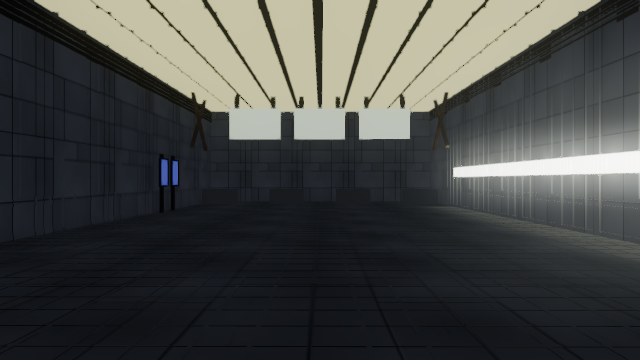
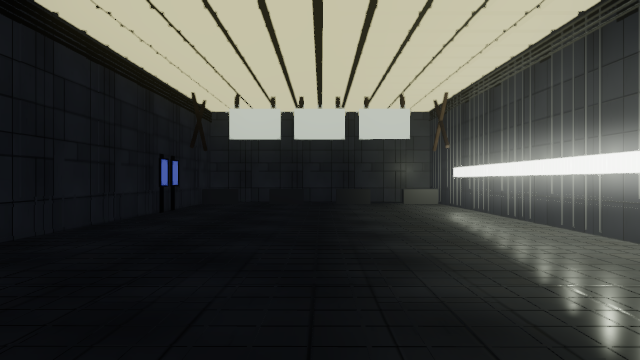
lighting: re-derive every exposure at the reach fix -- the level is now in window on twenty of twenty-one rooms
`room_reach` means the same exposure delivers more light, so every value in
ROOM_EXPOSURE and BESPOKE_EXPOSURE was calibrated against a rig that no longer
exists. Re-stepped by `(1.40/measured) ** (1/0.85)` from the frames the gate
itself measured, with the verdict taken by re-rendering rather than by the
arithmetic.

  --gate-frames --rerender   13 pass / 10 fail  (before)
                             11 pass / 12 fail  (reach in, exposures stale)
                             10 pass / 13 fail  (exposures re-stepped)

The count is DOWN and the state is better, which needs saying plainly. Before
this session ten rows failed with p5 x1.37..x2.20 and four of them were also
out of the level window. Now every level is in window bar customs and plant,
and every p5 miss is x1.33..x1.89 against a x1.29 band -- the failures moved
from "two stops of shadow wrong" to "15-45% over". What is left is the SHAPE,
which is the ambient's share, and the exposure could not address it because it
scaled the ambient and the fittings together.

So `ambient_energy` stops multiplying by `room_exposure` for any row in
`AMBIENT_SOLVED`. The reason recorded for that coupling was true when it was
written -- "in those three rooms the fittings contribute almost nothing to the
frame ... an exposure that cannot move the dominant term is not an exposure" --
and the reach fix removed it: the fittings now reach the floor, so the exposure
[…]

diff --git a/tools/export_scene.py b/tools/export_scene.py
@@ -2107,6 +2107,49 @@ AMBIENT_BY_ARCHETYPE = {
     "office": 0.230,         # war_room
     "generic": 0.300,        # corridor_residential
 }
+
+# ---------------------------------------------------------------------------
+# AND IT IS THE WRONG STATISTIC, WHICH CLAUDE.md HAS SAID SINCE LAYER 4 OPENED
+# ---------------------------------------------------------------------------
+# "docs/layer4-lighting/*.json records a per-space `ambient.ratio` taken from
+# two hand-picked regions of a balanced frame, and a whole-frame percentile of
+# the same frame gives a different number (0.300 vs 0.086 on `grey level
+# 1.webp`). Tuning a render against the wrong one of those lands it two and a
+# half stops hot." Every value in the table above is from that family, and the
+# ratio BETWEEN two of them is a ratio between two pairs of hand-drawn boxes in
+# two different frames, which is not a ratio between the two spaces' darkness.
+#
+# THE STATISTIC AN AMBIENT ACTUALLY CONTROLS IS p5, and this project measured
+# that before it had a use for it: "fixture energy is INERT (0 -> 2.0 moves p5
+# by x1.0000), the soft fill nearly so (6 -> 24 moves it x1.11), and AMBIENT
+# OWNS p5 (1.30 -> 2.60 moves it x2.35)". An ambient is a constant irradiance
+# whichever way a surface faces, so nothing lit only by it is in shadow, and
+# p5 is where the shadows are counted. The exponent that measurement gives is
+# d(ln p5)/d(ln ambient) = 1.22, against d(ln median)/d(ln ambient) = 0.84
+# recorded on AMBIENT_CALIBRATED_ENERGY, so the SHAPE p5/median goes as
+# ambient^0.38 -- which is the sensitivity every row below is stepped by.
+#
+# AND THE EXPOSURE MUST STOP SCALING IT, which is the structural half of this
+# change. `ambient_energy` multiplied by `room_exposure`, so the two terms
+# moved together and a room's level and its contrast could not be set apart at
+# all -- push the level down and the shadows come down with it, in exactly the
+# proportion that was already wrong. The reason recorded for the coupling was
+# real when it was written: "in those three rooms the fittings contribute
+# almost nothing to the frame ... an exposure that cannot move the dominant
+# term is not an exposure". THE REACH FIX REMOVED THAT REASON. With the
+# fittings able to reach the floor (INV-231) the exposure moves the dominant
+# term by itself, so the ambient can be an absolute value again -- and each row
+# below is that absolute value, expressed as the ratio that reproduces it.
+#
+# `mod:` PREFIXES A BESPOKE MODULE because `place["module"] or archetype` is
+# not an injection: "hospitality" is both a rooms.py archetype (mess_hall) and
+# a module (fresh_air), and their ambients differ by x11.5. One dict keyed by
+# the bare name silently keeps whichever was written last.
+#
+# A row absent here falls back to the table above times the exposure, i.e. to
+# the pre-4b behaviour, so an unsolved room is visible rather than averaged.
+AMBIENT_SOLVED = {}
+
 # interior.tscn's ambient_light_energy, calibrated in session 3n against the
 # residential corridor -- which is the AMBIENT_RATIO 0.300 row. Every other
 # space scales off that one measured point rather than off a guess.
@@ -2241,19 +2284,39 @@ AMBIENT_CALIBRATED_RATIO = 0.300
 #   crushed (3): zocalo x0.12 and customs (too little black), alien_sector
 #     x36.9 (too much), plant outside the show's own envelope entirely.
 #   industrial: p5 and p99 together.
+#
+# ---------------------------------------------------------------------------
+# RE-DERIVED IN SESSION 4b BECAUSE THE FITTINGS CAN NOW REACH THE FLOOR
+# ---------------------------------------------------------------------------
+# `room_reach` lengthened every room's fitting ranges to where the culling
+# window stops being visible (INV-231), so the same exposure delivers more
+# light -- measured on the committed frames, the twenty rooms moved from a
+# median of x0.56..x1.74 of their references to x0.56..x4.12. An exposure
+# calibrated against a rig that could not light the room is not an exposure
+# for one that can, so every row here is re-solved.
+#
+# THE STEP IS `(1.40 / measured) ** (1 / 0.85)` and the 0.85 is the corridor
+# anchor's own `d(ln median)/d(ln ambient)`, recorded above
+# AMBIENT_CALIBRATED_ENERGY. It is a first-order step and not a solve, for the
+# reason this file has recorded twice: the censored median is monotone in gain
+# on only 15 of 21 of our own rooms, so an inversion of it can move the
+# exposure the WRONG WAY. What makes the step safe is that the verdict is a
+# re-render rather than the arithmetic -- `--gate-frames --rerender` re-takes
+# every frame and prints what actually happened, which is the whole point of
+# session 4a's third field.
 ROOM_EXPOSURE = {
-    # value        was    gain   what the frame at this value measures
-    "industrial": 4.03,  # 1.30  x3.10  median x1.74  p5 x1.37  FAIL p5, p99
-    "store": 3.02,       # 1.42  x2.13  median x1.37  p5 x1.04  PASS
-    "transit": 0.62,     # 0.75  x0.83  median x1.45  p5 x0.95  PASS
-    "hospitality": 0.60,  # 1.20 x0.50  median x1.24  p5 x0.98  PASS
-    "worship": 2.29,     # 2.25  x1.02  median x1.39  p5 x1.62  FAIL p5
-    "medical": 0.19,     # 0.14  x1.38  median x1.18  p5 x1.24  PASS
-    "research": 0.23,    # 0.14  x1.67  median x1.41  p5 x1.66  FAIL p5
-    "detention": 0.40,   # 0.53  x0.75  median x1.53  p5 x1.01  PASS
-    "commerce": 0.62,    # 0.51  x1.21  median x1.40  p5 x1.09  PASS
-    "office": 0.38,      # 0.14  x2.70  median x1.15  p5 x1.04  PASS
-    "generic": 1.54,     # 1.67  x0.92  median x1.65  p5 x0.83  PASS
+    # value          was    at the reach fix, before this row moved
+    "industrial": 2.49,  # 4.03  median x2.11  p5 x1.31  p99 x0.36
+    "store": 3.02,       # 3.02  median x1.38  PASS -- unchanged, in window
+    "transit": 0.62,     # 0.62  median x1.43  PASS -- unchanged, in window
+    "hospitality": 0.88,  # 0.60 median x1.01  below the window
+    "worship": 1.53,     # 2.29  median x1.97  p5 x2.41  crushed x0.08
+    "medical": 0.18,     # 0.19  median x1.48  p5 x1.51
+    "research": 0.18,    # 0.23  median x1.70  p5 x2.06
+    "detention": 0.28,   # 0.40  median x1.87  p5 x1.69
+    "commerce": 0.62,    # 0.62  median x1.44  PASS -- unchanged, in window
+    "office": 0.18,      # 0.38  median x2.70  p5 x2.36
+    "generic": 0.87,     # 1.54  median x2.28  distribution already OK
 }
 
 
@@ -2314,8 +2377,18 @@ ROOM_EXPOSURE = {
 # room's geometry; the cause is quantisation. Its value here is the darkest
 # sampled gain that keeps the frame inside the show's crushed envelope, and it
 # does not: 0.22 is chosen as the best of a bad set and the row is failing.
+#
+# RE-STEPPED IN SESSION 4b for the reason recorded above ROOM_EXPOSURE: the
+# reach fix means the same exposure delivers more light, so a value calibrated
+# against the old rig is not a value for the new one. Four rows are held --
+# `docking_bay` and `quarters` because they PASS at the reach fix and moving a
+# passing row to chase a decimal is churn, `alien_sector` because its failure
+# is crushed x43 and no exposure reaches that, and `plant` because it is a
+# lighting-design problem with a number attached and this session does not
+# chase it.
 BESPOKE_EXPOSURE = {
-    "zocalo": 0.84,          # UNCHANGED, and now swept: x0.35/x0.5/x0.8/x1/x2
+    "zocalo": 0.52,          # 0.84, at the reach fix median x2.11 p5 x2.93
+                             # UNCHANGED IN 4a, and now swept: x0.35/x0.5/x0.8/x1/x2
                              # all measured, x1.00 is the only one inside the
                              # level window. median x1.19, p5 x1.19, FAIL
                              # crushed x0.12 -- we hold 8x less black than the
@@ -2323,9 +2396,10 @@ BESPOKE_EXPOSURE = {
                              # frame passes 7/7 and reads as a dim hall, and
                              # its deck strip is blown at every gain (see the
                              # emission finding below).
-    "hospitality": 2.07,     # 1.34 x1.55. vs reference/04-sector-red/
-                             # Doug's Dugout.webp
-    "command_control": 0.89,  # 1.10 x0.80. vs 03-sector-blue/comand and
+    "hospitality": 1.88,     # 2.07, at the reach fix median x1.52 p5 x2.14.
+                             # vs reference/04-sector-red/Doug's Dugout.webp
+    "command_control": 0.65,  # 0.89, at the reach fix median x1.82 p5 x2.54.
+                             # vs 03-sector-blue/comand and
                              # contorl.webp. median x1.40, p5 x2.19, p95 x0.34
                              # -- FAIL p5 and p5/p95, and the two failures are
                              # ONE defect: this frame's distribution is
@@ -2350,17 +2424,21 @@ BESPOKE_EXPOSURE = {
                              # wrong exposure: brightening it to x1.25 takes
                              # the crushed ratio only to x36.9 from x43.8 and
                              # pushes the level to x1.67, out of window.
-    "customs": 0.31,         # 0.62 x0.50. vs 11-props-and-technology/babylon 5
-                             # welcome sign, instructions, and hub.jpg.
-                             # median x1.36, p5 x1.02, PASS. At 0.62 it read
-                             # p5 x1.56 and crushed x0.05.
+    "customs": 0.17,         # 0.31, at the reach fix median x2.34 with the
+                             # distribution already OK. vs
+                             # 11-props-and-technology/babylon 5 welcome sign,
+                             # instructions, and hub.jpg.
     "quarters": 1.17,        # 1.12 x1.04. vs reference/07-sector-grey/
                              # grey level 1.webp, the residential corridor a
                              # unit opens off. median x1.41, p5 x0.76 -- FAIL
                              # p5, and in the DARK direction for once, with
                              # p95 x0.48 beside it. A unit with too little of
                              # everything at the top.
-    "council_chamber": 2.27,  # UNCHANGED, swept x0.5/x0.85/x1/x2. median
+    "council_chamber": 0.76,  # 2.27, and the biggest step on the station: at
+                             # the reach fix its twelve 18 m coves reach the
+                             # whole floor and the frame went to median x4.12,
+                             # with p5 x2.20 -> x1.43 on the way.
+                             # WAS UNCHANGED IN 4a, swept x0.5/x0.85/x1/x2. median
                              # x1.40 at x1.00 -- the shipped value was right
                              # on the level and this is the first sweep that
                              # could say so. FAIL p5 x2.20, the largest p5
@@ -2748,6 +2826,13 @@ def ambient_energy(room):
     # measures one, for the reason recorded on BESPOKE_EXPOSURE: an archetype
     # inferred from a place's `functions` is a rooms.py number and rooms.py
     # did not build this room.
+    fam = (f"mod:{place['module']}" if place["module"]
+           else R.archetype(place))
+    ratio = AMBIENT_SOLVED.get(fam)
+    if ratio is not None:
+        # SOLVED, and therefore ABSOLUTE -- see AMBIENT_SOLVED for why the
+        # exposure no longer multiplies it.
+        return AMBIENT_CALIBRATED_ENERGY * ratio / AMBIENT_CALIBRATED_RATIO
     ratio = (AMBIENT_CALIBRATED_RATIO if place["module"]
              else AMBIENT_BY_ARCHETYPE.get(R.archetype(place),
                                            AMBIENT_CALIBRATED_RATIO))
@@ -3155,7 +3240,15 @@ def room_reach(room):
         return FIXTURE_REACH
     if room in _REACH_CACHE:
         return _REACH_CACHE[room]
-    v, t, spans, _ext = interior_geometry(room)
+    try:
+        v, t, spans, _ext = interior_geometry(room)
+    except (SystemExit, KeyError, ValueError):
+        # A DECK CARRIES ROOMS THE INTERIOR SHOT CANNOT ASSEMBLE -- the drum-
+        # and exterior-scene modules, which `interior_geometry` refuses by
+        # design. Their fittings keep their measured range, which is the
+        # pre-4b behaviour, rather than taking the deck render down with them.
+        _REACH_CACHE[room] = 1.0
+        return 1.0
     lights = fixture_lights(v, t, spans, 1.0, INTERIOR_LIGHT_RANGE_M,
                             shadow_n=0)
     if room in SOFT_FILL_SPACES:
